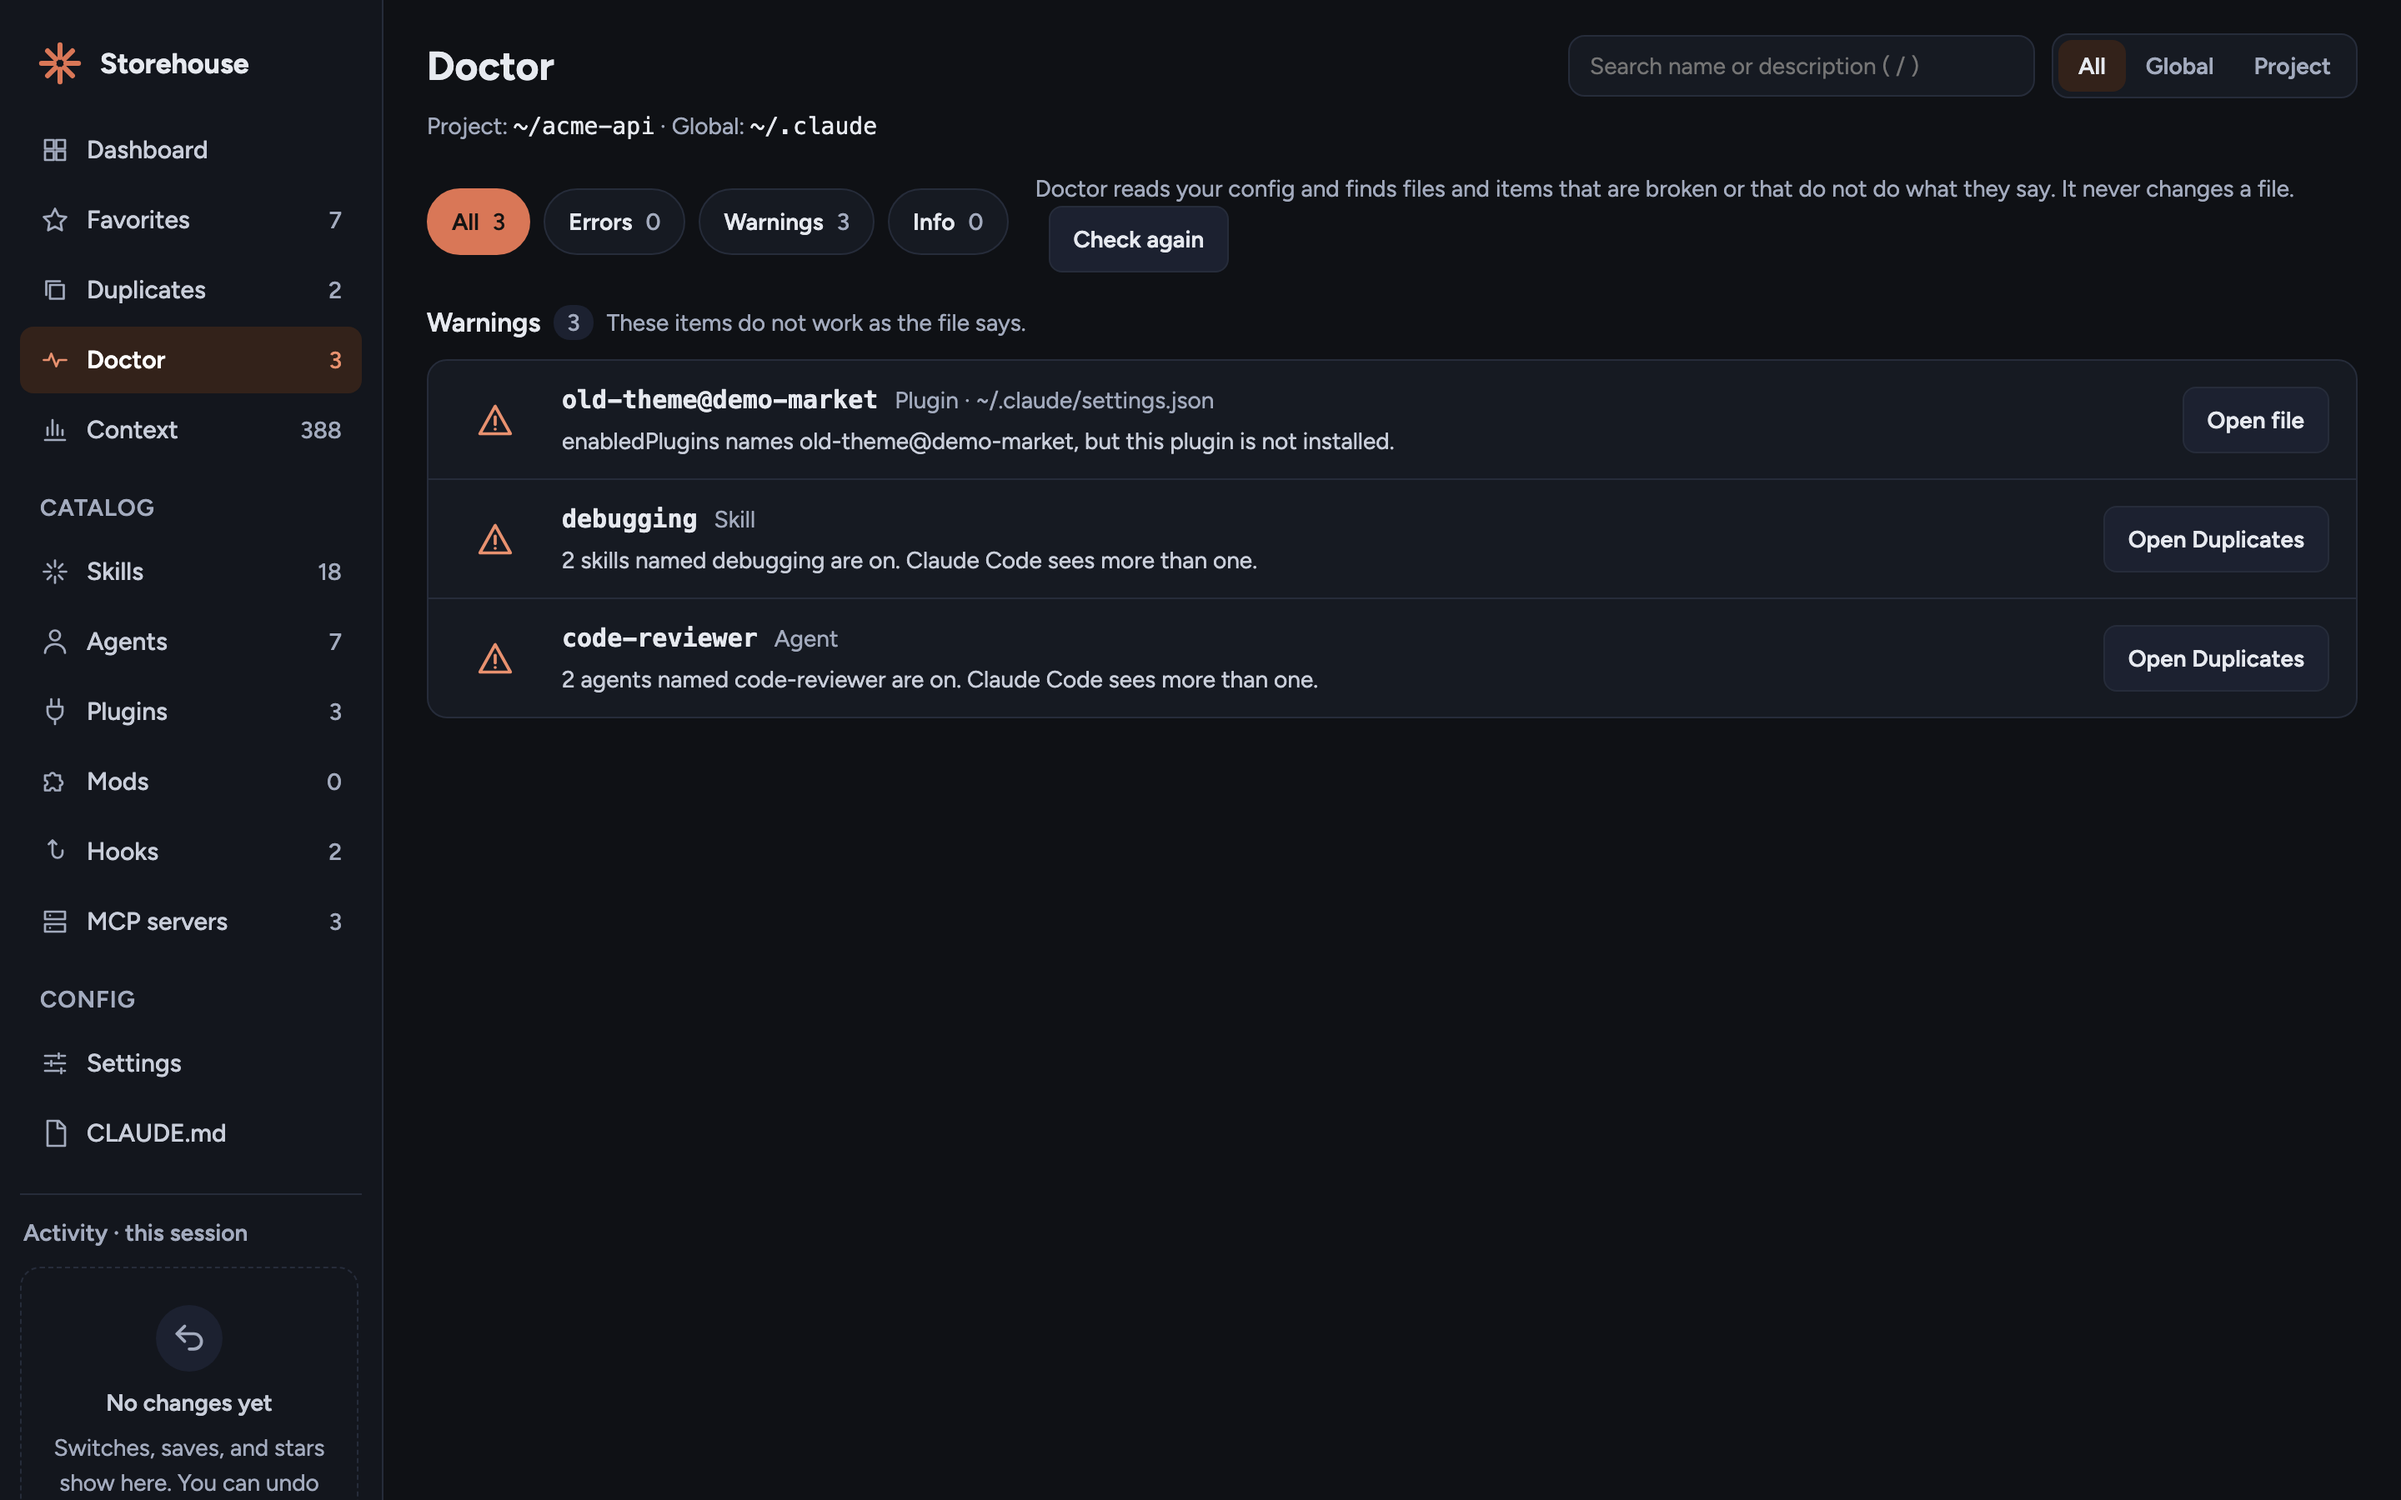
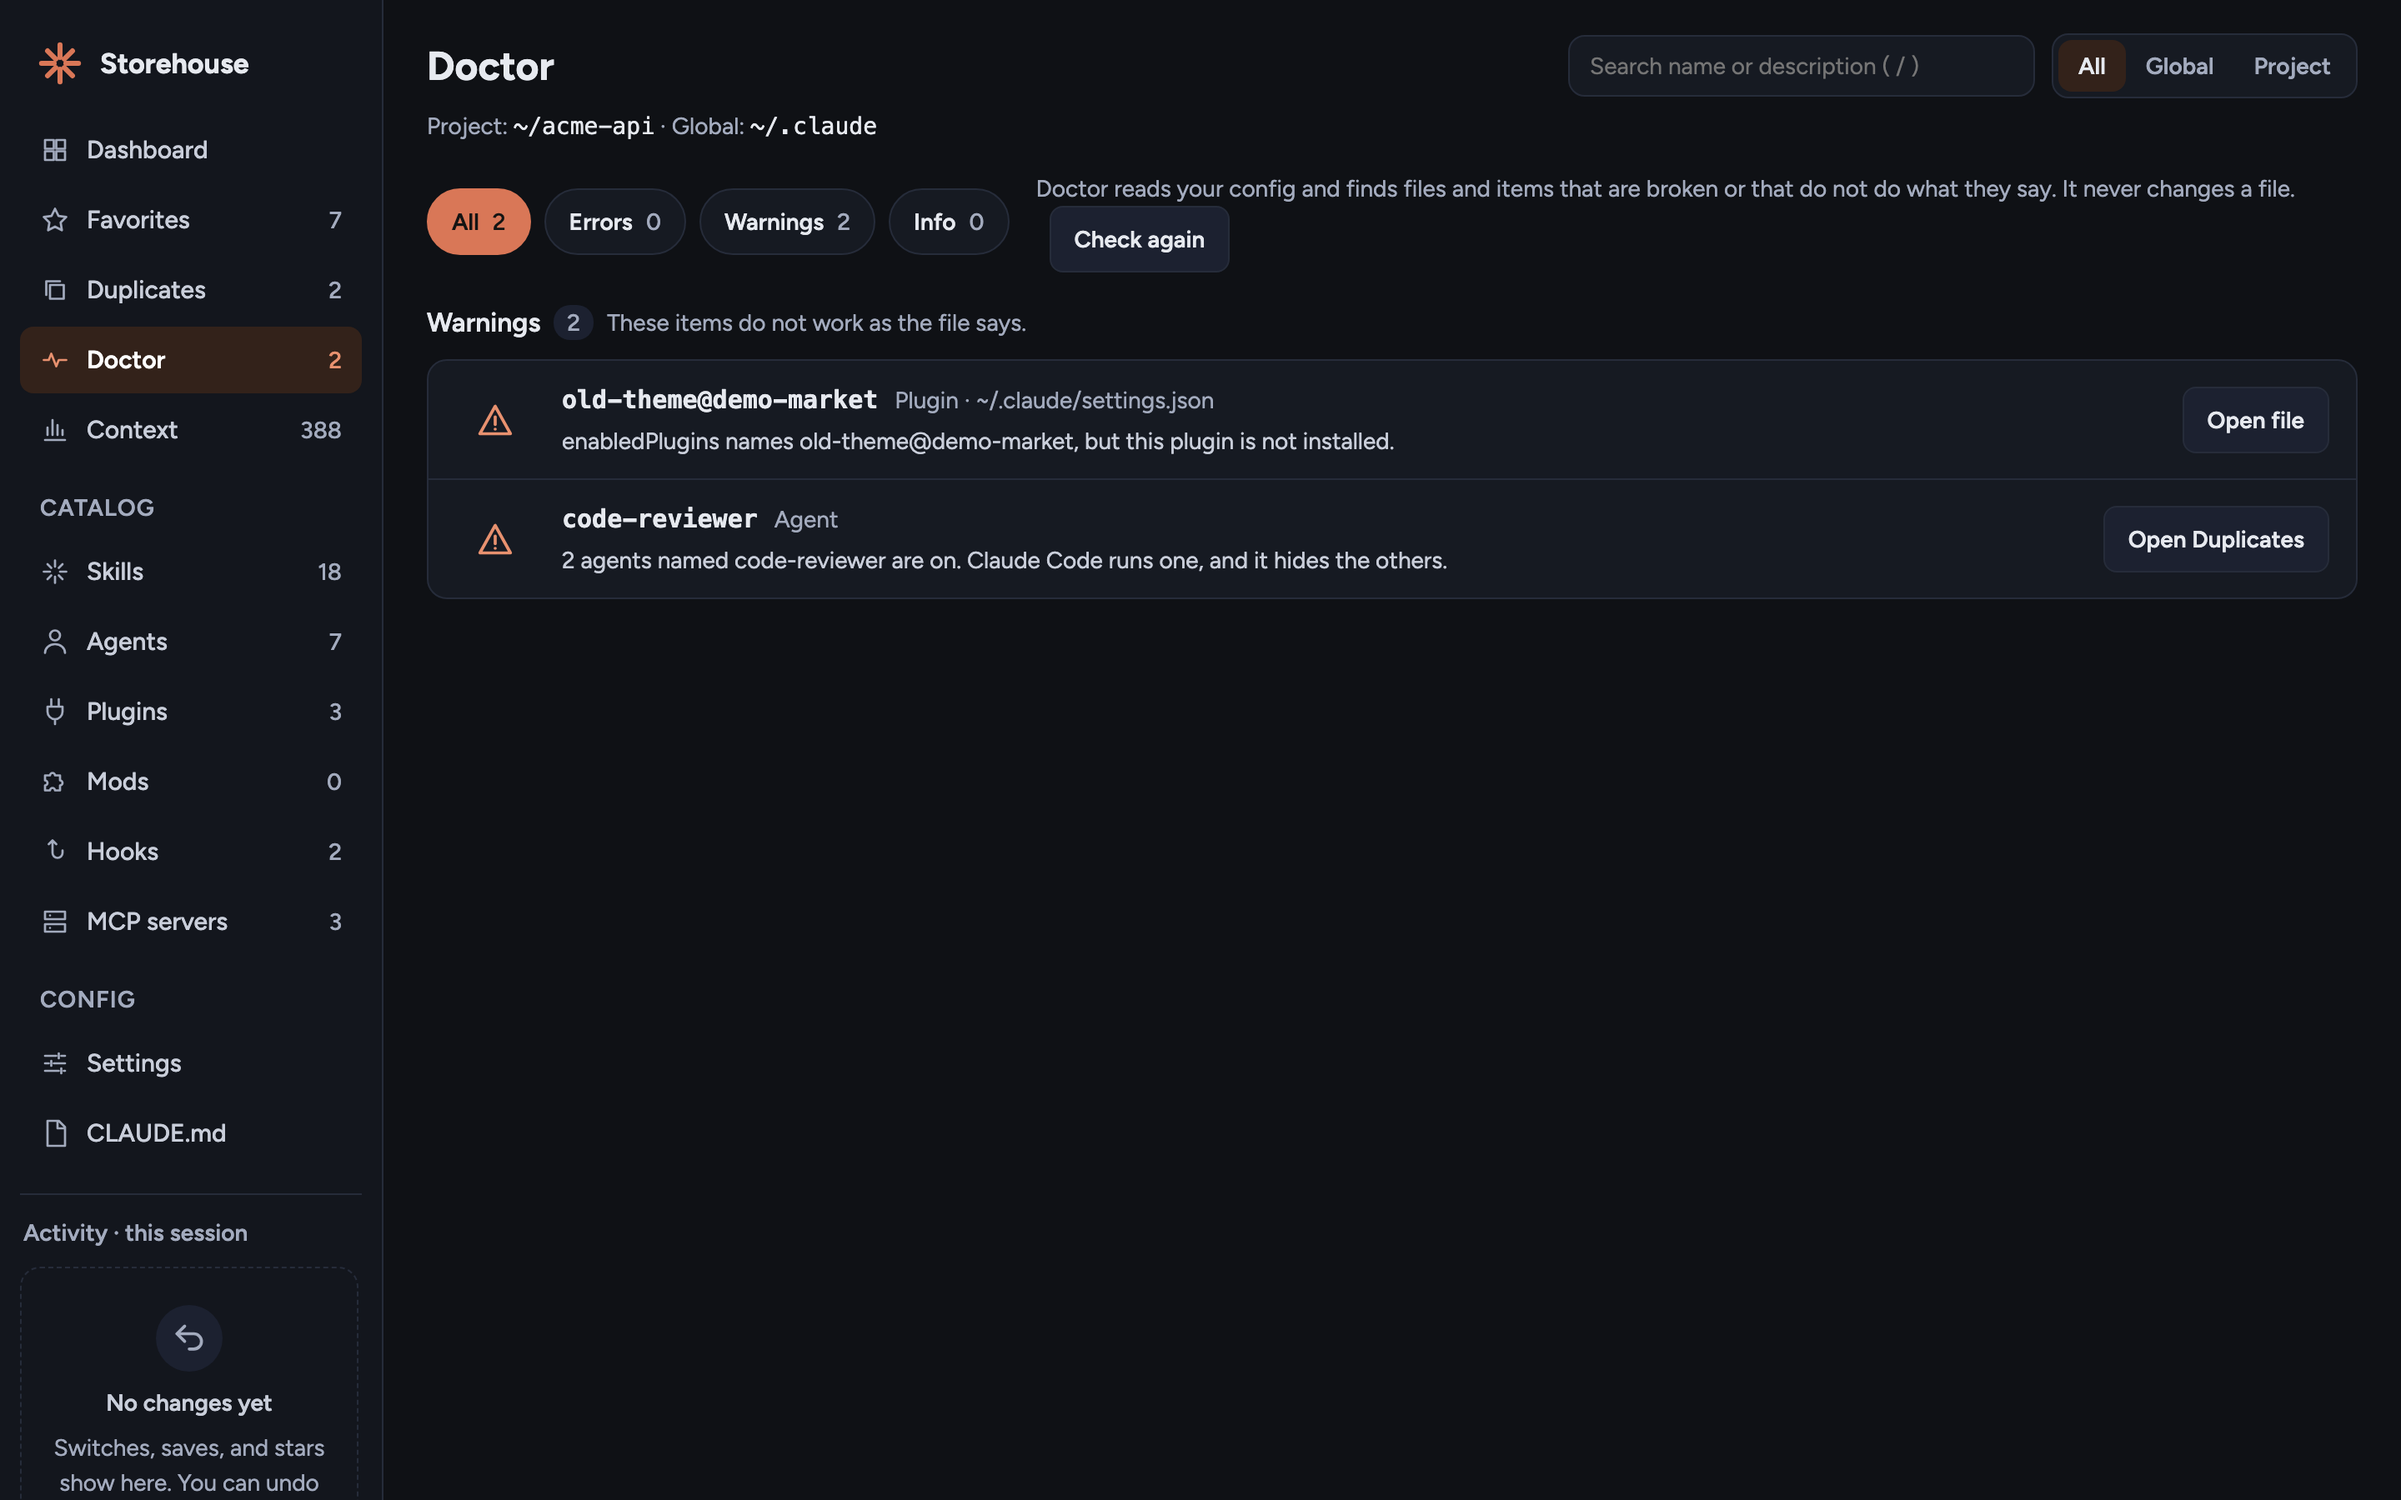
fix(scan): stop Doctor false warnings for plugin namesakes and bundled skillOverrides keys

diff --git a/src/scan/doctor.js b/src/scan/doctor.js
@@ -178,7 +178,9 @@ function installedIds(home) {
 
 function checkSettingsKeys(ctx, add) {
   const installed = installedIds(ctx.home)
-  const skills = new Set((ctx.inventory.skills ?? []).map((skill) => skill.name))
+  const all = ctx.inventory.skills ?? []
+  const ownSkills = new Set(all.filter((skill) => skill.scope !== 'plugin').map((skill) => skill.name))
+  const pluginSkills = new Set(all.filter((skill) => skill.scope === 'plugin').map((skill) => skill.name))
   for (const file of settingsFiles(ctx.inventory)) {
     ctx.checked.add(file.path)
     if (isObject(file.data.enabledPlugins)) {
@@ -195,12 +197,15 @@ function checkSettingsKeys(ctx, add) {
     }
     if (isObject(file.data.skillOverrides)) {
       for (const name of Object.keys(file.data.skillOverrides)) {
-        if (skills.has(name)) continue
-        add(6, 'warning', {
+        if (ownSkills.has(name)) continue
+        const pluginOnly = pluginSkills.has(name)
+        add(6, pluginOnly ? 'warning' : 'info', {
           kind: 'skill',
           name,
           file: file.path,
-          message: `skillOverrides names ${name}, but no skill has this name.`,
+          message: pluginOnly
+            ? `skillOverrides names ${name}, but only a plugin skill has this name. Plugin skills ignore skillOverrides. Switch the plugin instead.`
+            : `skillOverrides names ${name}, but no local or project skill has this name. Bundled skills are not scanned, so the key can still be valid.`,
           target: null
         })
       }
@@ -216,7 +221,7 @@ function checkDuplicates(inventory, add) {
   ]) {
     const on = new Map()
     for (const item of list ?? []) {
-      if (item.enabled) on.set(item.name, (on.get(item.name) ?? 0) + 1)
+      if (item.enabled && item.scope !== 'plugin') on.set(item.name, (on.get(item.name) ?? 0) + 1)
     }
     for (const [name, count] of on) {
       if (count < 2) continue
@@ -224,7 +229,7 @@ function checkDuplicates(inventory, add) {
         kind,
         name,
         file: null,
-        message: `${count} ${word} named ${name} are on. Claude Code sees more than one.`,
+        message: `${count} ${word} named ${name} are on. Claude Code runs one, and it hides the others.`,
         target: { page: 'dups' }
       })
     }

diff --git a/test/scan/doctor.test.js b/test/scan/doctor.test.js
@@ -257,10 +257,26 @@ test('check 6 reports skillOverrides keys for skills that do not exist', () => {
       ['old']
     )
     assert.equal(found[0].file, settingsFile(fx))
+    assert.equal(found[0].severity, 'info')
+    assert.match(found[0].message, /Bundled skills/)
     editJson(settingsFile(fx), (data) => {
       delete data.skillOverrides.old
     })
     assert.deepEqual(issues(fx, 6), [])
+  })
+})
+
+test('check 6 warns when a skillOverrides key names only a plugin skill', () => {
+  withFixture((fx) => {
+    editJson(settingsFile(fx), (data) => {
+      delete data.skillOverrides.old
+      data.skillOverrides.brainstorming = 'off'
+    })
+    const found = issues(fx, 6)
+    assert.equal(found.length, 1)
+    assert.equal(found[0].name, 'brainstorming')
+    assert.equal(found[0].severity, 'warning')
+    assert.match(found[0].message, /Plugin skills ignore skillOverrides/)
   })
 })
 
@@ -273,8 +289,20 @@ test('check 7 reports a name with more than one item on', () => {
     assert.equal(found[0].name, 'html-report')
     assert.equal(found[0].kind, 'skill')
     assert.deepEqual(found[0].target, { page: 'dups' })
+    assert.match(found[0].message, /hides the other/)
     editJson(path.join(fx.projectDir, '.claude', 'settings.local.json'), (data) => {
       data.skillOverrides['html-report'] = 'off'
+    })
+    assert.deepEqual(issues(fx, 7), [])
+  })
+})
+
+test('check 7 ignores plugin items, which Claude Code namespaces', () => {
+  withFixture((fx) => {
+    writeFile(path.join(fx.home, '.claude', 'skills', 'brainstorming', 'SKILL.md'), '---\ndescription: mine\n---\n')
+    writeFile(path.join(fx.home, '.claude', 'agents', 'reviewer.md'), '---\ndescription: mine\n---\n')
+    editJson(path.join(fx.home, '.claude.json'), (data) => {
+      data.mcpServers.context7 = { command: 'npx' }
     })
     assert.deepEqual(issues(fx, 7), [])
   })

diff --git a/test/site.test.js b/test/site.test.js
@@ -36,8 +36,7 @@ test('site build makes the landing page and a live demo from the current public/
   assert.ok(data.usage.all.cost > 0)
   assert.deepEqual(data.doctor.issues.map((i) => `${i.check}:${i.name}`).sort(), [
     '5:old-theme@demo-market',
-    '7:code-reviewer',
-    '7:debugging'
+    '7:code-reviewer'
   ])
   assert.ok(data.files['/Users/demo/.claude/CLAUDE.md'].content.length > 0)
 })

diff --git a/.claude/rules/business-logic.md b/.claude/rules/business-logic.md
@@ -142,8 +142,9 @@ Doctor never writes and never runs a command. Check 3 only looks for an executab
 | 3   | Warning  | The command of an MCP stdio server that is on is not an executable file on `PATH`, or at its absolute path.                    |
 | 4   | Warning  | An MCP server that is on uses `${VAR}`, and `VAR` is not in `process.env` or in settings `env`.                                |
 | 5   | Warning  | `enabledPlugins` names a plugin that is not in `installed_plugins.json`.                                                       |
-| 6   | Warning  | `skillOverrides` names a skill that does not exist.                                                                            |
-| 7   | Warning  | More than one skill, agent, or MCP server with one name is on. The row links to Duplicates.                                    |
+| 6   | Warning  | `skillOverrides` names only a plugin skill. Plugin skills ignore `skillOverrides`.                                             |
+| 6   | Info     | `skillOverrides` names no local or project skill. It can still name a bundled skill, which Storehouse does not scan.           |
+| 7   | Warning  | More than one local or project skill, agent, or MCP server with one name is on. The row links to Duplicates.                   |
 | 8   | Info     | A local or project skill or agent has no `description` in its frontmatter (`hasDescription: false`).                           |
 | 9   | Info     | A link in `skills/` or `agents/` is broken (`inventory.skipped`), or a local item's real path is outside home and the project. |
 | 10  | Info     | A CLAUDE.md file has more than 200 lines.                                                                                      |
@@ -152,6 +153,7 @@ Doctor never writes and never runs a command. Check 3 only looks for an executab
 - Checks 2, 3, and 4 skip items that are off. `${VAR:-default}` counts as set. `CLAUDE_PLUGIN_ROOT`, `CLAUDE_PLUGIN_DATA`, and `CLAUDE_PROJECT_DIR` count as set.
 - Check 5 skips the marketplaces `builtin` and `synced`. Claude Code does not list those plugins in `installed_plugins.json`.
 - Checks 8 and 9 skip plugin items. The user cannot edit plugin files.
+- Check 7 skips plugin items. Claude Code namespaces them as `/plugin:name`, so they do not clash with a local item. Between local and project items, one wins: personal over project for skills. Source: code.claude.com/docs/en/skills, "Resolve skills that share a name". The Duplicates page still groups plugin items, so its Conflict count can be higher than the Doctor count.
 - `PATH` of the Storehouse process can differ from the `PATH` Claude Code uses. The row says "not found on the PATH of this terminal".
 - The browser loads `/api/doctor` with each inventory refresh, so it runs again after each write. "Check again" refreshes both.
 - The nav count is errors plus warnings. It is red when an error exists. The page ignores the scope filter and uses the search box.

diff --git a/README.md b/README.md
@@ -92,8 +92,8 @@ After a few months with Claude Code you have dozens of skills, a handful of plug
 
 - The Doctor page finds config that is broken or that does not do what it says. Claude Code often fails on these without a message.
 - Errors: a config file with invalid JSON.
-- Warnings: a hook script that does not exist, an MCP command not on the PATH of this terminal, an unset `${VAR}`, a stale `enabledPlugins` or `skillOverrides` key, and same-name items that are all on.
-- Info: a skill or agent with no description, a broken symlink, and a CLAUDE.md longer than 200 lines.
+- Warnings: a hook script that does not exist, an MCP command not on the PATH of this terminal, an unset `${VAR}`, a stale `enabledPlugins` key, a `skillOverrides` key for a plugin skill, and local or project items with one name that are all on.
+- Info: a `skillOverrides` key that matches no local skill, a skill or agent with no description, a broken symlink, and a CLAUDE.md longer than 200 lines.
 - Each row has Open file or Open item. Doctor never writes a file or runs a command.
 
 ![Doctor page with Errors, Warnings, and Info filter chips and warning rows, each with an Open button](https://raw.githubusercontent.com/Sumonta056/claude-storehouse/main/docs/images/doctor.png)
